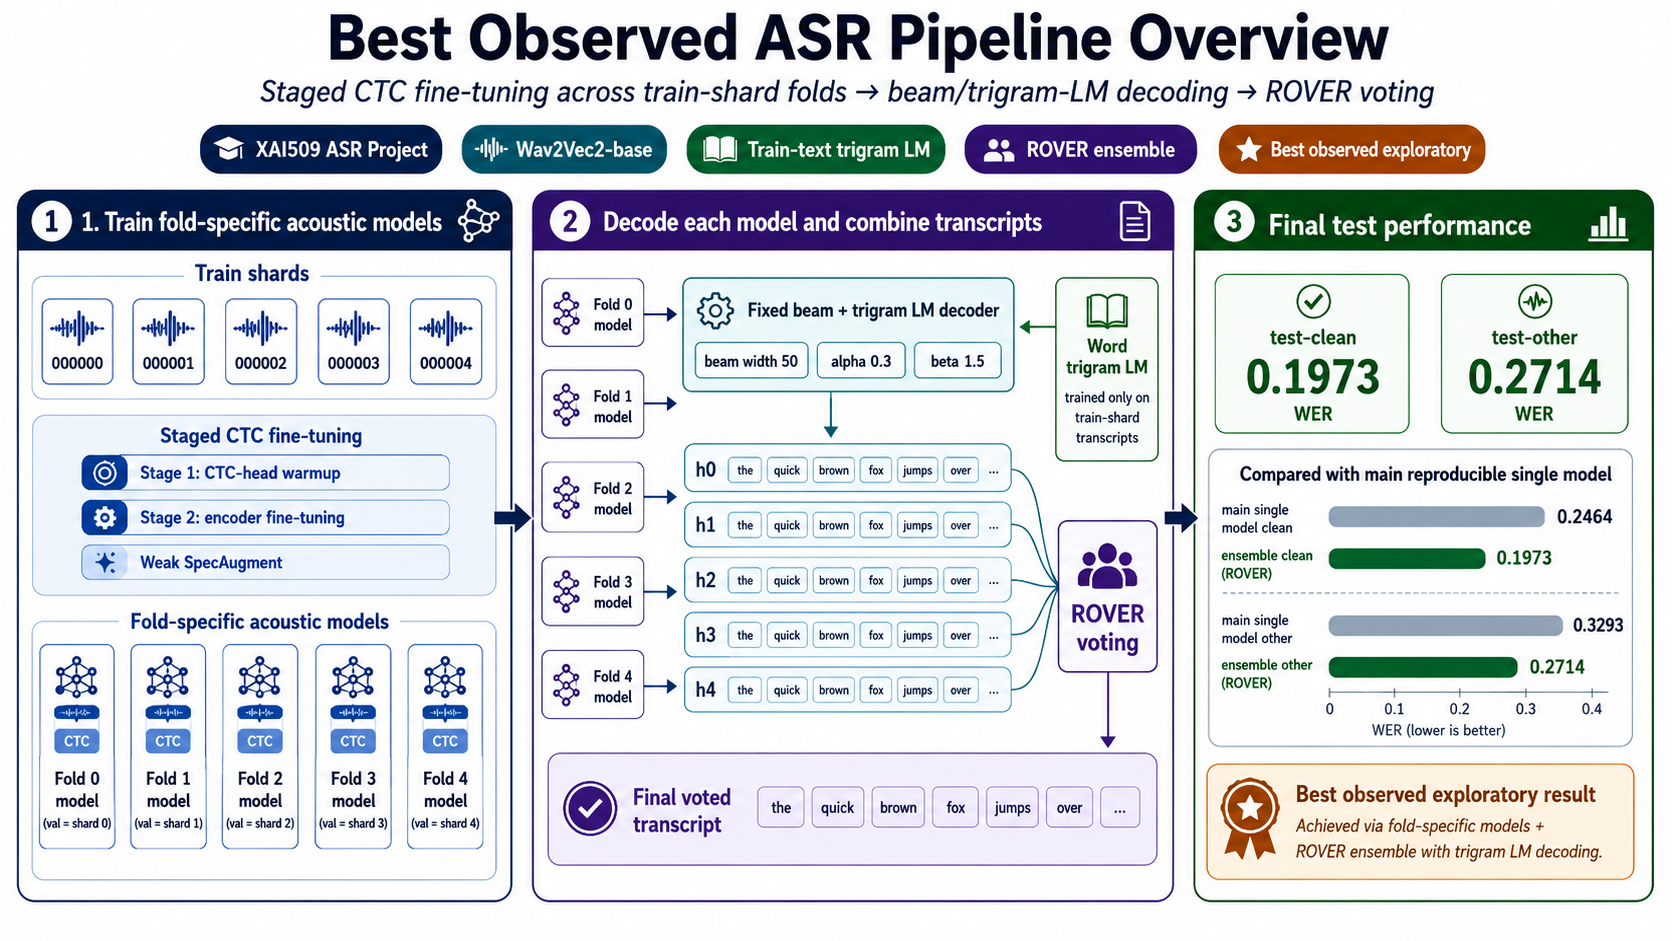
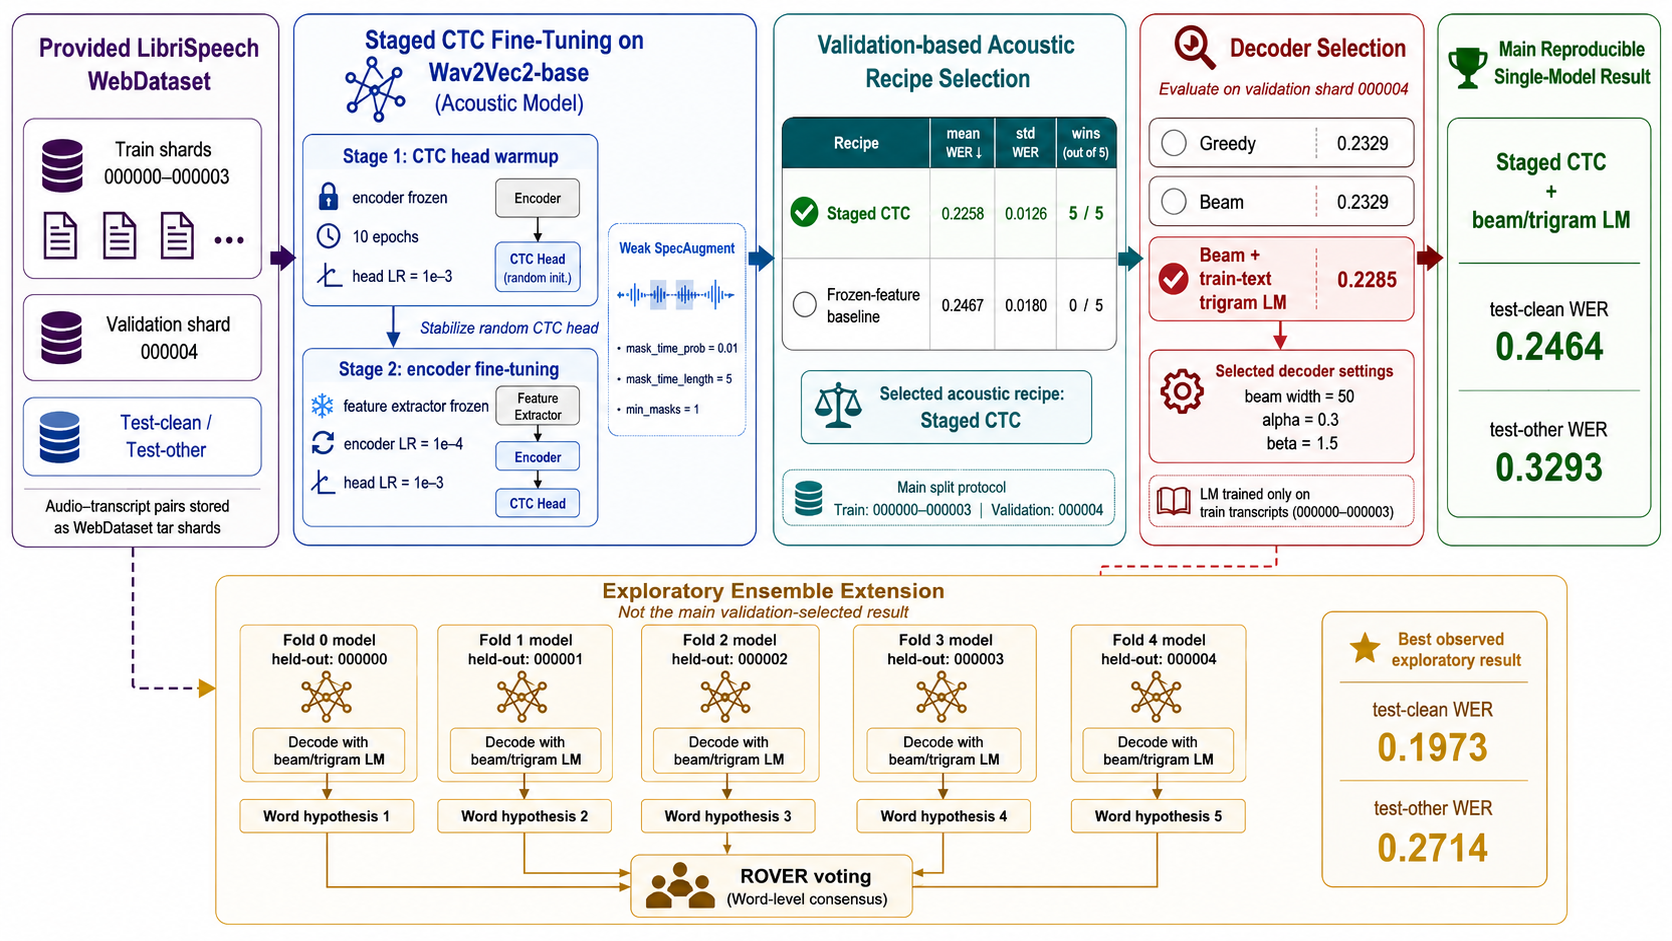
final figure added

diff --git a/docs/EXPERIMENT_SUMMARY.md b/docs/EXPERIMENT_SUMMARY.md
@@ -67,11 +67,28 @@ likely before encoder parameters begin moving.
 for the project vocabulary. The initial learning-rate sweep therefore
 started with a random CTC head and converged to blank-dominant outputs.
 
-Fold-0 diagnostics for the early variants showed validation WER around `1.0`,
-empty hypotheses for every sample, a blank-token rate of `1.0`, and a
-nonblank-token rate of `0.0`. These results motivated direct inspection of
-logits, labels, CTC lengths, loss finiteness, and train/evaluation mode rather
-than treating the failure as a decoding problem.
+The retained fold-0 diagnostic summary contains four failed checkpoints: two
+checkpoints from early variant A and one checkpoint each from variants B and C.
+All four rows show the same collapse pattern on 56 validation utterances.
+
+**Observed blank-collapse diagnostic pattern in early failed runs**
+
+| Diagnostic | Observed value |
+| --- | ---: |
+| Validation WER | 1.000 |
+| Empty-hypothesis rate | 1.000 (56 / 56 utterances) |
+| Blank-token rate | 1.000 |
+| Nonblank-token rate | 0.000 |
+
+The same records report an average hypothesis length of `0.0` characters and
+`0.0` words. Across 38,888 argmax frame predictions, every predicted token was
+the tokenizer blank/padding token. These results motivated direct inspection
+of logits, labels, CTC lengths, loss finiteness, and train/evaluation mode
+rather than treating the failure as a decoding problem.
+
+The source is the historical compact artifact
+`results/base_strict_cv/fold0_blank_diagnostics_summary.csv` from commit
+`9485021` (identical content is present in the pre-cleanup commit `584aa04`).
 
 ## SpecAugment and stability diagnosis
 

diff --git a/reports/final_strict_base_report.md b/reports/final_strict_base_report.md
@@ -19,6 +19,23 @@ SpecAugment enabled (`mask_time_prob=0.01`, `mask_time_length=5`,
 The selected decoder uses beam width 50 and the train-text trigram language
 model with alpha 0.3 and beta 1.5.
 
+## Stability diagnosis
+
+Early lower-learning-rate runs with the newly initialized CTC head collapsed
+to blank predictions. The retained fold-0 diagnostics covered 56 validation
+utterances and showed the following exact pattern across variants A, B, and C:
+
+| Diagnostic | Early failed runs |
+| --- | ---: |
+| Validation WER | 1.000 |
+| Empty-hypothesis rate | 1.000 (56 / 56 utterances) |
+| Blank-token rate | 1.000 |
+| Nonblank-token rate | 0.000 |
+
+The average decoded hypothesis contained zero characters and zero words. This
+evidence motivated the staged head-warmup schedule and the weak SpecAugment
+configuration used by the selected method.
+
 | Setting | Validation WER | test-clean WER | test-other WER |
 | --- | ---: | ---: | ---: |
 | Staged CTC fine-tuned Wav2Vec2 + beam/trigram LM | 0.228487 | 0.246386 | 0.329289 |